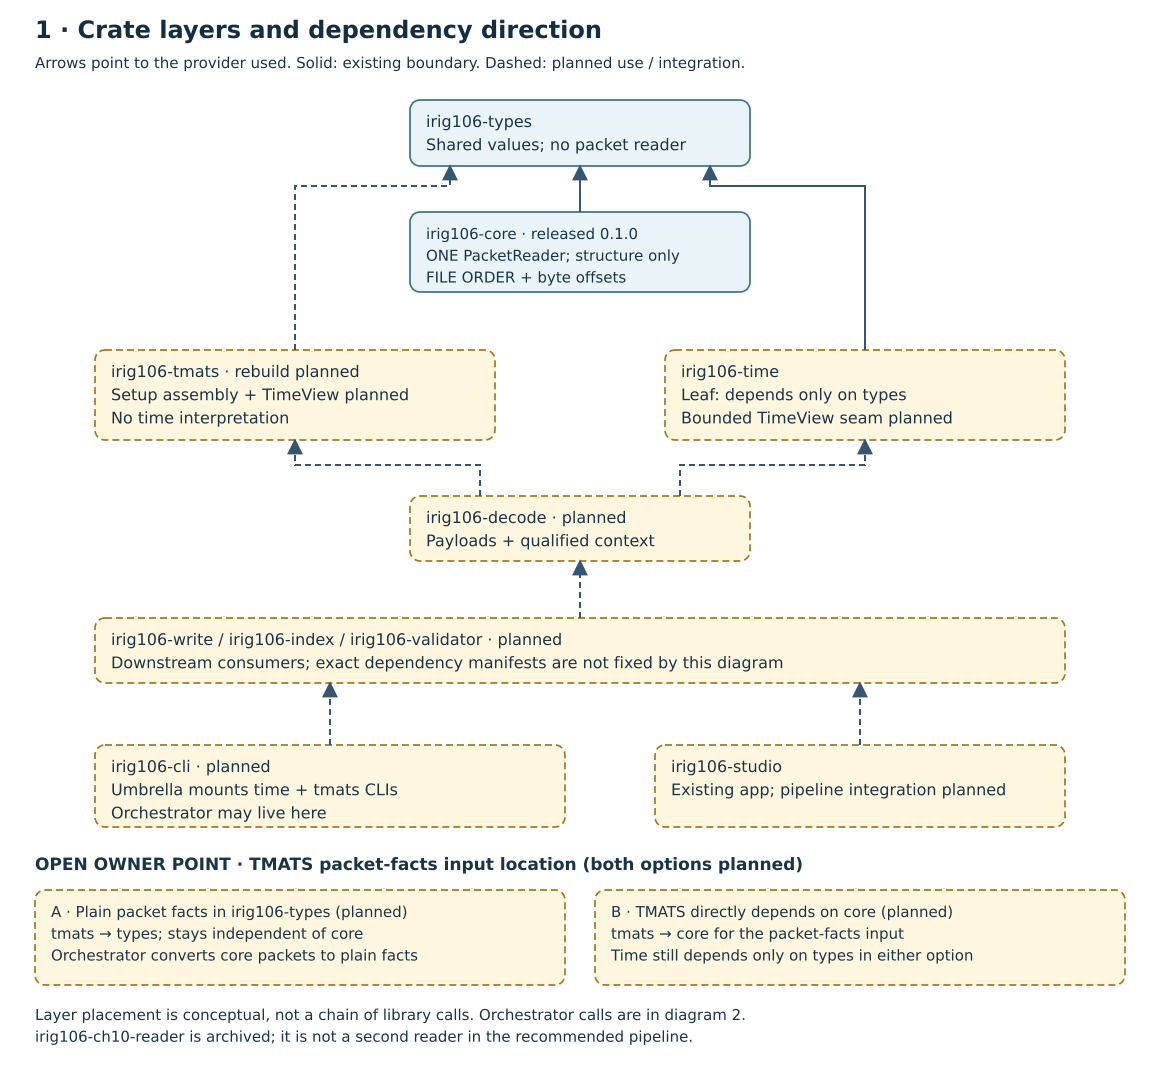
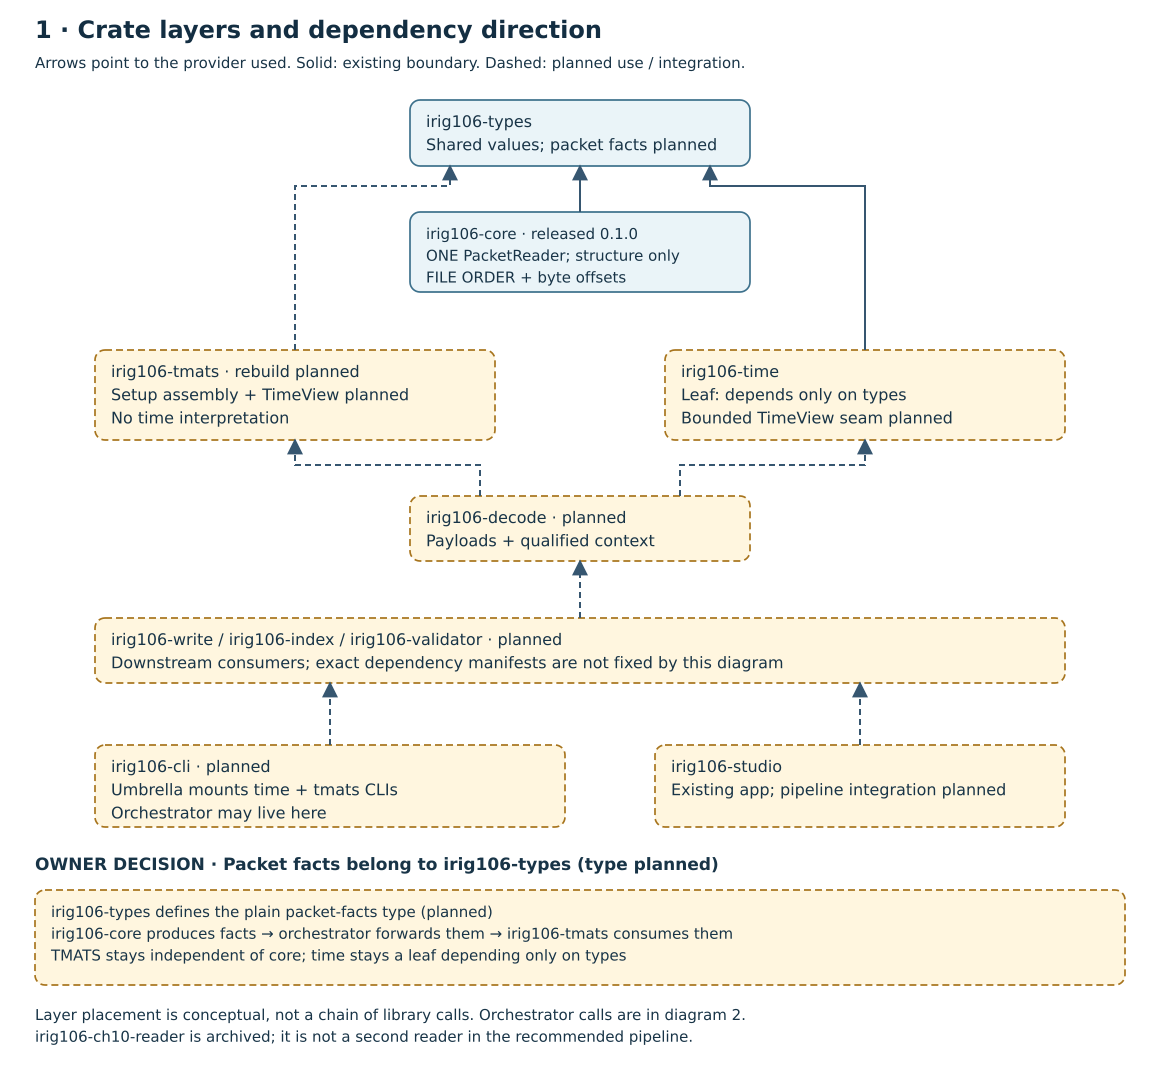
docs: record owner's shared packet-facts boundary decision

Changed region(s): [[0.031, 0.7944, 0.8069, 0.9167], [0.4966, 0.1222, 0.6207, 0.1528]]

diff --git a/src/architecture/pipeline.md b/src/architecture/pipeline.md
@@ -10,12 +10,14 @@ this page does not silently update its historical evidence.
 The owner has decided the layer responsibilities, one shared reader, per-channel
 setup assembly, initial and mid-recording closure by time packets, and initial
 ordering checks. The **coordinator-recommended** one-pass orchestrator is a
-planned design. The location of the packet-facts input type remains an **open
-owner decision**; neither option below is selected.
+planned design. The owner has also decided that the plain packet-facts type lives in
+`irig106-types`: core produces the facts, the orchestrator passes them on, and
+TMATS consumes them without depending on core. The type and its integration
+remain **planned** until implemented.
 
 ## 1. Layers and dependencies
 
-![Crate layers, provider-directed dependency arrows, and two open packet-facts seam options](diagrams/pipeline-layers.png)
+![Crate layers, provider-directed dependency arrows, and the decided shared packet-facts boundary](diagrams/pipeline-layers.png)
 
 [SVG source](diagrams/pipeline-layers.svg) · [PNG export](diagrams/pipeline-layers.png)
 
@@ -32,15 +34,12 @@ The umbrella `irig106-cli` is intended to mount the time and TMATS CLI libraries
 One reader in core is the target: this does not claim every existing consumer
 has already removed its duplicate reader.
 
-Time remains a leaf library depending only on types (ADR-0005). The recommended
-TMATS leaf boundary uses plain data; its packet-facts seam is still open:
-
-| Open option | Planned input boundary | Effect |
-| --- | --- | --- |
-| A: shared plain facts | Packet-facts type in `irig106-types`; orchestrator adapts core output | Keeps TMATS independent of core |
-| B: direct core dependency | TMATS accepts facts through a dependency on `irig106-core` | Couples TMATS's input contract to core; not the leaf-boundary option |
-
-Neither option adds a time-to-core or time-to-TMATS dependency. Static dependencies
+Time remains a leaf library depending only on types (ADR-0005). The owner-decided
+TMATS leaf boundary uses a plain packet-facts type in `irig106-types`
+(**planned**). Core produces that shared value, the orchestrator passes it on,
+and TMATS consumes it. TMATS stays independent of core; the orchestrator does
+not define a competing packet-facts type. No direct TMATS-to-core dependency
+is selected. Time gains no dependency on core or TMATS. Static dependencies
 and runtime calls are distinct: the recommended orchestration below has no
 semantic library call another semantic library to walk the recording.
 
@@ -54,7 +53,8 @@ The **planned orchestrator** lives in a CLI application or a future pipeline
 crate. It drives one `irig106_core::PacketReader` in **file order**, retaining byte
 offsets. It never sorts by RTC before assembly. For each packet it:
 
-1. Forwards channel, header data type, sequence, flags, offset, RTC, and relevant
+1. Passes on core-produced plain packet facts (shared type in `irig106-types`,
+   **planned**): channel, header data type, sequence, flags, offset, RTC, and relevant
    trust/edition evidence to TMATS's **planned** observation seam. For a Format 1
    setup packet, it also supplies that fragment's CSDW and body. `SetupAssembler.observe(...)`
    is conceptual notation here, not a verified callable Rust signature.
